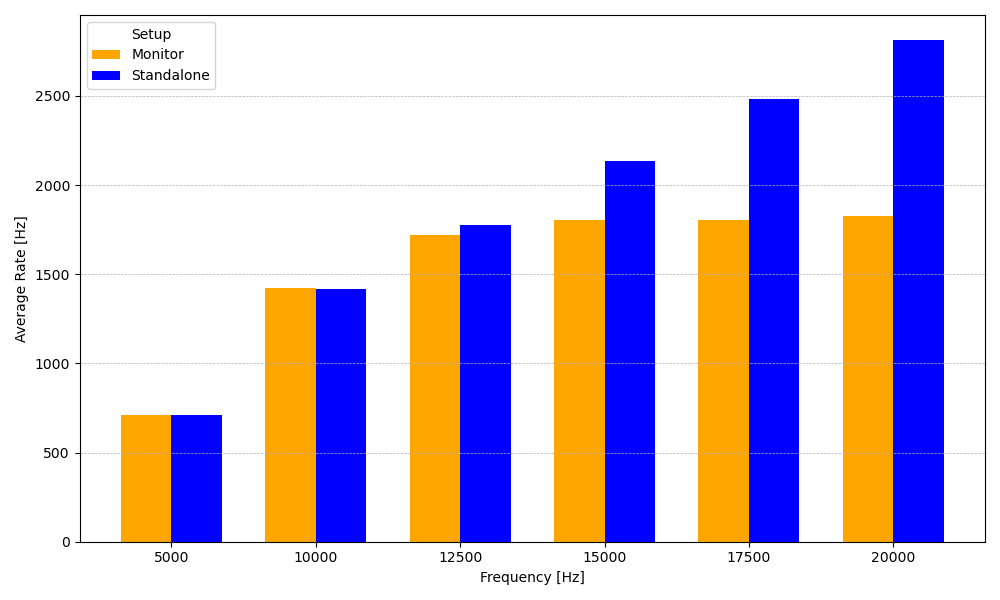
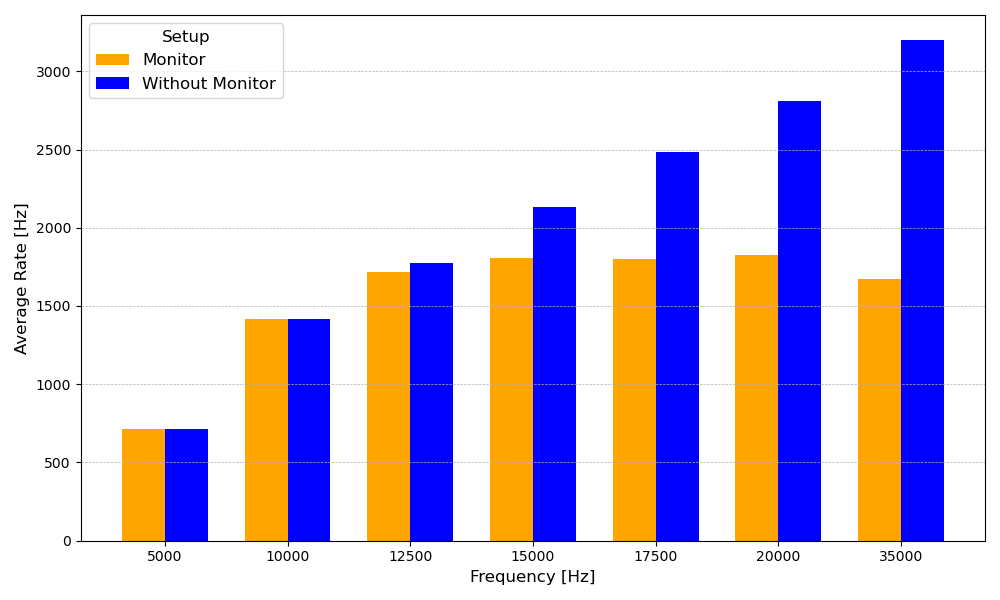
new figures w/ upgraded rate plotter

diff --git a/upgraded_rate_plotter.py b/upgraded_rate_plotter.py
@@ -11,27 +11,26 @@ def read_average_rates(filename):
     return rates
 
 # Reverse the order of frequencies
-frequencies = [35000, 20000, 17500, 15000, 12500, 10000, 5000][::-1]
+frequencies = [20000, 17500, 15000, 12500, 10000, 5000][::-1]
 standalone_averages = []
 monitor_averages = []
 
 # Loop through frequencies and process files
 for freq in frequencies:
-    # Read data
     standalone_filename = f'standalone_rates_{freq}hz.txt'
     monitor_filename = f'monitor_rates_{freq}hz.txt'
     standalone_rates = read_average_rates(standalone_filename)
     monitor_rates = read_average_rates(monitor_filename)
 
     # Plot standalone rates
-    plt.figure()
-    plt.plot(range(len(standalone_rates)), standalone_rates, label='Without Monitor', color='blue')
-    plt.plot(range(len(monitor_rates)), monitor_rates, label='Monitor', color='orange')
-    plt.xlabel('Time [s]')
-    plt.ylabel('Average Rate [Hz]')
-    # plt.title(f'Average Publishing Rate over Time ({freq} Hz)')
+    plt.figure(figsize=(15, 10))
+    line_width_ = 3
+    plt.plot(range(len(standalone_rates)), standalone_rates, label='Without Monitor', color='blue', linestyle=(0, (2, 1)), linewidth=line_width_)
+    plt.plot(range(len(monitor_rates)), monitor_rates, label='Monitor', color='orange', linewidth=line_width_)
+    plt.xlabel('Time [s]', fontsize='x-large')
+    plt.ylabel('Average Rate [Hz]', fontsize='x-large')
     plt.grid(True)
-    plt.legend()
+    plt.legend(title="Setup", fontsize='x-large', title_fontsize='x-large')
     
     # Calculate averages
     standalone_avg = sum(standalone_rates) / len(standalone_rates) if standalone_rates else 0
@@ -39,50 +38,46 @@ for freq in frequencies:
     standalone_averages.append(standalone_avg)
     monitor_averages.append(monitor_avg)
 
+    # Save the plot with a formatted name
+    freq_khz = freq / 1000  # Convert frequency to kHz
+    if freq % 1000 == 0:
+        filename = f"{int(freq_khz)}khz_performance.png"  # For whole numbers like 10 kHz
+    else:
+        filename = f"{freq_khz:.1f}khz_performance.png".replace('.', '_')  # For non-whole numbers like 12.5 kHz
+    plt.savefig(filename)  # Save the figure
+    plt.close()  # Close the plot to free up memory
 
 # Create layered bar plot
 plt.figure(figsize=(10, 6))
-bar_width = 0.35  # Adjust this value to change the thickness of bars
-indices = np.arange(len(frequencies))  # Reverse the order of indices
+bar_width = 0.35
+indices = np.arange(len(frequencies))
 for i, (freq, standalone_avg, monitor_avg) in enumerate(zip(frequencies, standalone_averages, monitor_averages)):
     plt.bar(indices[i] - bar_width/2, monitor_avg, label='Monitor' if i == 0 else '', color='orange', width=bar_width)
-    plt.bar(indices[i] + bar_width/2, standalone_avg, label='Standalone' if i == 0 else '', color='blue', width=bar_width)
+    plt.bar(indices[i] + bar_width/2, standalone_avg, label='Without Monitor' if i == 0 else '', color='blue', width=bar_width)
 
-# Add labels and customizations
-plt.xlabel('Frequency [Hz]')
-plt.ylabel('Average Rate [Hz]')
-# plt.title('Average Publishing Rate Comparison')
-plt.legend(title="Setup")
+plt.xlabel('Frequency [Hz]', fontsize='large')
+plt.ylabel('Average Rate [Hz]', fontsize='large')
+plt.legend(title="Setup", fontsize='large', title_fontsize='large')
 plt.grid(axis='y', linestyle='--', linewidth=0.5)
-plt.xticks(indices, frequencies)  # Use reversed frequencies for x-axis ticks
+plt.xticks(indices, frequencies)
 plt.tight_layout()
 
-# Calculate percent increases
+# Calculate percent decreases
 percent_decreases = []
 for sa_avg, m_avg in zip(standalone_averages, monitor_averages):
-    if sa_avg == 0:  # Prevent division by zero
+    if sa_avg == 0:
         percent_decrease = 0
     else:
         percent_decrease = ((m_avg - sa_avg) / m_avg) * -100
     percent_decreases.append(percent_decrease)
 
-plt.figure(figsize=(10, 6))  # Define the size of the figure
-indices = np.arange(len(frequencies))  # Get the indices for the frequencies
-bar_width = 0.35  # Define the bar width
-
-# Plot the percentage decreases
+plt.figure(figsize=(9, 6))
 plt.bar(indices, percent_decreases, color='red', width=bar_width)
-
-# Add labels and customizations
-plt.xlabel('Frequency [Hz]')
-plt.ylabel('Percentage Decrease [%]')
-# plt.title('Percentage Decrease of Average Rates by Frequency')
-plt.xticks(indices, [str(f) + ' Hz' for f in frequencies])  # Set the x-axis labels as frequency values with Hz
+plt.xlabel('Frequency [Hz]', fontsize='large')
+plt.ylabel('Percentage Decrease [%]', fontsize='large')
+plt.xticks(indices, [str(f) + ' Hz' for f in frequencies])
 plt.grid(axis='y', linestyle='--', linewidth=0.5)
 plt.tight_layout()
 
-
-# Display the plot
 plt.show()
-
 print(percent_decreases)
